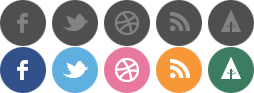
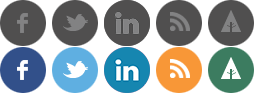
footer

diff --git a/front/src/app/components/container/footer/footer.component.html b/front/src/app/components/container/footer/footer.component.html
@@ -1,6 +1,6 @@
 <div class="footer-container"><!-- Begin Footer -->
-  <div class="container">
-      <div class="row footer-row">
+    <div class="container">
+        <div class="row footer-row">
             <div class="col-lg-3 col-sm-6 footer-col">
                 <h5>A propos</h5><br>
                 <address>
@@ -8,10 +8,10 @@
                     64100 Bayonne<br>
                 </address>
                 <ul class="social-icons">
-                    <li><a href="#" class="social-icon facebook"></a></li>
-                    <li><a href="#" class="social-icon twitter"></a></li>
-                    <!--<li><a href="#" class="social-icon dribble"></a></li>
-                    <li><a href="#" class="social-icon rss"></a></li>
+                    <!--<li><a href="https://www.facebook.com/sebaurel" class="social-icon facebook" target="blank"></a></li>-->
+                    <li><a href="https://twitter.com/Sebaurel64" class="social-icon twitter" target="blank"></a></li>
+                    <li><a href="https://www.linkedin.com/in/sébastien-aurel-8a29bb9a/" class="social-icon linkedin" target="blank"></a></li>
+                    <!--<li><a href="#" class="social-icon rss"></a></li>
                     <li><a href="#" class="social-icon forrst"></a></li>-->
                 </ul>
             </div>
@@ -30,31 +30,24 @@
                     </li>
                 </ul>
             </div>
-            <!--<div class="col-lg-3 col-sm-6 footer-col">
+            <div class="col-lg-3 col-sm-6 footer-col">
                 <h5>Derniers commentaires</h5>
                  <ul class="post-list">
-                    <li><a href="#">Lorem ipsum dolor sit amet</a></li>
-                    <li><a href="#">Consectetur adipiscing elit est lacus gravida</a></li>
+                    <li *ngFor="let commentaire of lastCommentaire$ | async">
+                        <a href="#"><h6><span class="small">De</span> {{commentaire.redacteur.pseudo}}</h6></a>
+                        <a href="#">{{commentaire.body | slice:0:30}}</a>
+                    </li>
                 </ul>
             </div>
             <div class="col-lg-3 col-sm-6 footer-col">
                 <h5>Photos</h5>
                 <ul class="img-feed">
-                    <li><a href="#"><img src="" alt="Image Feed"></a></li>
-                    <li><a href="#"><img src="" alt="Image Feed"></a></li>
-                    <li><a href="#"><img src="" alt="Image Feed"></a></li>
-                    <li><a href="#"><img src="assets\WG_Piccolo\img\gallery/flickr-img-1.jpg" alt="Image Feed"></a></li>
-                    <li><a href="#"><img src="assets\WG_Piccolo\img\gallery/flickr-img-1.jpg" alt="Image Feed"></a></li>
-                    <li><a href="#"><img src="assets\WG_Piccolo\img\gallery/flickr-img-1.jpg" alt="Image Feed"></a></li>
-                    <li><a href="#"><img src="assets\WG_Piccolo\img\gallery/flickr-img-1.jpg" alt="Image Feed"></a></li>
-                    <li><a href="#"><img src="assets\WG_Piccolo\img\gallery/flickr-img-1.jpg" alt="Image Feed"></a></li>
-                    <li><a href="#"><img src="assets\WG_Piccolo\img\gallery/flickr-img-1.jpg" alt="Image Feed"></a></li>
-                    <li><a href="#"><img src="assets\WG_Piccolo\img\gallery/flickr-img-1.jpg" alt="Image Feed"></a></li>
-                    <li><a href="#"><img src="assets\WG_Piccolo\img\gallery/flickr-img-1.jpg" alt="Image Feed"></a></li>
-                    <li><a href="#"><img src="assets\WG_Piccolo\img\gallery/flickr-img-1.jpg" alt="Image Feed"></a></li>
+                    <li *ngFor="let photo of lastPhoto$ | async">
+                        <a href="#"><img class="petiteThumb" [src]="pathUpload+photo.id+'-thumb.png'" alt="Image"></a>
+                    </li>
                 </ul>
             </div>
-        </div>-->
+        </div><!---->
 
         <!--<div class="row"> Begin Sub Footer
             <div class="col-12 footer-col footer-sub">

diff --git a/front/src/app/components/profil-form/profil-form.component.html b/front/src/app/components/profil-form/profil-form.component.html
@@ -1,0 +1,74 @@
+<div class="container-scroller background-picture">
+    <div class="container-fluid page-body-wrapper full-page-wrapper">
+      <form [formGroup]="formProfile">
+        <div class="content-wrapper d-flex align-items-center auth login-full-bg">
+          <div class="col-lg-5 mx-auto">
+            <div class="auth-form-dark text-left p-5">
+              <h2>Votre profil</h2>
+              <h5 class="font-weight-light">Renseignements généraux</h5>
+  
+              <div class="form-group" [ngClass]="{'has-error': formErrors.pseudo}">
+                <label for="pseudo">Pseudo</label>
+                <input type="text" class="form-control" name="pseudo" id="pseudo" formControlName="pseudo" />
+                <div *ngIf="formErrors.pseudo" class="help-block">{{formErrors.pseudo}}</div>
+              </div>
+              <!--<div class="form-group">
+                <label for="nom">Nom</label>
+                <input type="text" class="form-control" name="nom" id="nom" />
+              </div>
+              <div class="form-group">
+                <label for="prenom">Prénom</label>
+                <input type="text" class="form-control" name="prenom" id="prenom" />
+              </div>-->
+              <div class="form-group" [ngClass]="{'has-error': formErrors.email}">
+                <label for="email">Email</label>
+                <input type="email" class="form-control" name="email" id="email" formControlName="email" />
+              </div>
+              <!--<div class="form-group">
+                <label for="password">Mot de passe</label>
+                <input type="password" class="form-control" name="password" id="password" />
+              </div>-->
+  
+            </div>
+          </div>
+  
+          <div class="col-lg-5 mx-auto">
+            <div class="auth-form-dark text-left p-5">
+              <h5 class="font-weight-light">Un peu plus sur vous</h5>
+  
+              <div class="row">
+                <div class=" mx-auto" width="40px">
+                  <label for="photo">Photo de profil</label>
+                  <div class="row">
+  
+                    <app-photo-upload [(photo)]="utilisateur.photo" [(photoThumbPath)]="photoThumbPath" [width]="190" [height]="250" [progress]="progress" (photoUpload)="photoChange($event)"></app-photo-upload>
+  
+                  </div>
+                </div>
+                <!--
+                <div class="col-lg-5 mx-auto">
+                  <div class="form-group">
+                    <label for="birthday">Date de naissance</label>
+                    <input type="Date" class="form-control" name="birthday" id="birthday" />
+                  </div>
+                </div>
+              </div>
+  
+              <div class="form-group">
+                <label for="descriptif">Vous en quelques mots</label>
+                <textarea rows="4" cols="50" class="form-control" name="descriptif" id="descriptif">{{utilisateur.descriptif}}</textarea>
+              </div>-->
+              </div>
+  
+            </div>
+          </div>
+  
+        </div>
+        <div class="mt-5 mb-3 text-center">
+          <button class="btn btn-lg font-weight-medium" [ngClass]="!confirmExit ? 'btn-success' : 'btn-warning'" (click)="onSubmit(formProfile)">Modifier mon compte</button>
+          &nbsp;
+          <button class="btn btn-danger btn-lg font-weight-medium" (click)="delete()">Supprimer mon compte</button>
+        </div>
+      </form>
+    </div>
+  </div>

diff --git a/front/src/app/app-routing.module.ts b/front/src/app/app-routing.module.ts
@@ -3,7 +3,8 @@ import { LoginComponent } from "./components/login/login.component";
 import { RegisterComponent } from "./components/register/register.component";
 import { ContainerComponent } from "./components/container/container.component";
 import { UrlPermission } from "./jwtAuthorization/url.permission";
-import { ProfileComponent } from './components/profile/profile.component';
+import { ProfilFormComponent } from './components/profil-form/profil-form.component';
+import { ProfilComponent } from './components/profil/profil.component';
 import { RecetteFormComponent } from './components/recette-form/recette-form.component';
 import { RecettesComponent } from './components/recettes/recettes.component';
 import { AlimentFormComponent } from './components/aliment-form/aliment-form.component';
@@ -31,14 +32,17 @@ export const routes: Routes = [
   {
     path: 'recettes',
     component: ContainerComponent,
-    children: [
-      { path: '', component: RecettesComponent, outlet: 'connected' },
-    ],
+    children: [{ path: '', component: RecettesComponent, outlet: 'connected' },],
   },
   {
     path: 'compte',
     component: ContainerComponent, canActivate: [UrlPermission],
-    children: [{ path: '', component: ProfileComponent, canDeactivate: [ConfirmationGuard], outlet: 'connected' }]
+    children: [{ path: '', component: ProfilFormComponent, canDeactivate: [ConfirmationGuard], outlet: 'connected' }]
+  },
+  {
+    path: 'compte/:id',
+    component: ContainerComponent, canActivate: [UrlPermission],
+    children: [{ path: '', component: ProfilComponent, canDeactivate: [ConfirmationGuard], outlet: 'connected' }]
   },
   {
     path: 'mesrecettes',

diff --git a/front/src/app/components/container/header/navigation/navigation.component.html b/front/src/app/components/container/header/navigation/navigation.component.html
@@ -5,8 +5,9 @@
             <a class="dropdown" routerLink="/home">Accueil</a>
         </li>
         <li *ngIf="loggedIn else recetteBlock" [className]="ongletRecettes" on-mouseover="activate('recettes')" on-mouseleave="deActivate('recettes')">
-            <a class="dropdown-toggle" routerLink="/recettes">Recettes</a>
+            <a class="dropdown-toggle">Recettes</a>
             <ul class="dropdown-menu" [hidden]="!menuRecettes">
+                <li><a routerLink="/recettes">Recherche</a></li>
                 <li><a routerLink="/recette/new">Déposer</a></li>
             </ul>
         </li>
@@ -19,10 +20,11 @@
             <a class="dropdown" routerLink="/contact">Contact</a>
         </li>
         <li *ngIf="loggedIn else loginBlock" [className]="ongletCompte" on-mouseover="activate('compte')" on-mouseleave="deActivate('compte')">
-            <a class="dropdown-toggle" routerLink="/compte"><fa-icon [icon]="faUser"></fa-icon>&nbsp;Compte</a>
+            <a class="dropdown-toggle" ><fa-icon [icon]="faUser"></fa-icon>&nbsp;Compte</a>
             <ul class="dropdown-menu" [hidden]="!menuCompte">
-                <li *ngIf="loggedIn"><a routerLink="/mesrecettes">Mes recettes</a></li>
-                <li *ngIf="loggedIn"><a routerLink="/mesfavoris">Mes favoris</a></li>
+                <li><a routerLink="/compte">Mon profil</a></li>
+                <li><a routerLink="/mesrecettes">Mes recettes</a></li>
+                <li><a routerLink="/mesfavoris">Mes favoris</a></li>
                 <li *ngIf="admin"><a routerLink="/recette/aliment">Aliments</a></li>
                 <li><a href="#" (click)="logOut()">Déconnexion</a></li>
             </ul>

diff --git a/front/src/app/app.module.ts b/front/src/app/app.module.ts
@@ -16,7 +16,6 @@ import { AppComponent } from './app.component';
 import { LoginComponent } from './components/login/login.component';
 import { ContainerComponent } from './components/container/container.component';
 import { AuthService } from './services/auth.service';
-import { ProfileComponent } from './components/profile/profile.component';
 import { UrlPermission } from './jwtAuthorization/url.permission';
 import { UtilisateurService } from './services/utilisateur.service';
 import { PreviousRouteService } from './services/previous-route.service';
@@ -53,6 +52,8 @@ import { PhotoUploadComponent } from './components/transverse/photo-upload/photo
 import { FontAwesomeModule } from '@fortawesome/angular-fontawesome';
 import { PrintRecetteComponent } from './components/transverse/print-recette/print-recette.component';
 import { ContactComponent } from './components/contact/contact.component';
+import { ProfilComponent } from './components/profil/profil.component';
+import { ProfilFormComponent } from './components/profil-form/profil-form.component';
 
 registerLocaleData(localeFr);
 
@@ -62,7 +63,6 @@ registerLocaleData(localeFr);
     LoginComponent, 
     RegisterComponent,
     ContainerComponent,
-    ProfileComponent,
     RecetteFormComponent,
     RecetteComponent,
     HomeComponent,
@@ -89,6 +89,8 @@ registerLocaleData(localeFr);
     PhotoUploadComponent,
     PrintRecetteComponent,
     ContactComponent,
+    ProfilComponent,
+    ProfilFormComponent,
   ],
   imports: [
     HttpClientModule,

diff --git a/front/src/app/components/container/footer/footer.component.ts b/front/src/app/components/container/footer/footer.component.ts
@@ -3,6 +3,10 @@ import { RecetteService } from 'src/app/services/recette.service';
 import { Observable } from 'rxjs';
 import { Recette } from 'src/app/model/recette.model';
 import { environment } from 'src/environments/environment';
+import { CommentaireService } from 'src/app/services/commentaire.service';
+import { PhotoService } from 'src/app/services/photo.service';
+import { Commentaire } from 'src/app/model/commentaire.model';
+import { Photo } from 'src/app/model/photo.model';
 
 @Component({
   selector: 'app-footer',
@@ -13,11 +17,17 @@ export class FooterComponent implements OnInit {
 
   pathUpload: string = environment.PATH_UPLOAD;
   lastRecette$: Observable<Recette>;
-   
+  lastCommentaire$ : Observable<Commentaire>;
+  lastPhoto$ : Observable<Photo>;
+
   constructor(
-    private recetteService: RecetteService
+    private recetteService: RecetteService,
+    private commentaireService: CommentaireService,
+    private photoService: PhotoService
   ) {
-    this.lastRecette$ = recetteService.getLastRecette();
+    this.lastRecette$ = this.recetteService.getLastRecette();
+    this.lastCommentaire$ = this.commentaireService.getLastCommentaire();
+    this.lastPhoto$ = this.photoService.getLastPhoto();
   }
 
   ngOnInit() {

diff --git a/front/src/app/services/photo.service.ts b/front/src/app/services/photo.service.ts
@@ -10,6 +10,8 @@ import { Photo } from '../model/photo.model';
 })
 export class PhotoService {
   
+  url: string = environment.API_URL+'rest/photo';
+
   constructor(
     private uploadService: UploadFileService,
     private http: HttpClient
@@ -21,12 +23,15 @@ export class PhotoService {
     .append("height", height)
     .append("width", width);
 
-    let url = environment.API_URL+'rest/photo'
     
-    return this.uploadService.pushFileToStorage(selectedPhoto, url, httpParams);
+    return this.uploadService.pushFileToStorage(selectedPhoto, this.url, httpParams);
   }
 
   deletePhoto(photo: Photo) {
-    return this.http.delete(environment.API_URL+'rest/photo/'+ photo.id)
+    return this.http.delete(this.url+ photo.id)
+  }
+
+  public getLastPhoto(): Observable<Photo> {
+    return this.http.get<Photo>(this.url+'/last', {observe: 'body'});
   }
 }

diff --git a/front/src/app/components/profil/profil.component.spec.ts b/front/src/app/components/profil/profil.component.spec.ts
@@ -1,20 +1,20 @@
 import { async, ComponentFixture, TestBed } from '@angular/core/testing';
 
-import { ProfileComponent } from './profile.component';
+import { ProfilComponent } from './profil.component';
 
-describe('ProfileComponent', () => {
-  let component: ProfileComponent;
-  let fixture: ComponentFixture<ProfileComponent>;
+describe('ProfilComponent', () => {
+  let component: ProfilComponent;
+  let fixture: ComponentFixture<ProfilComponent>;
 
   beforeEach(async(() => {
     TestBed.configureTestingModule({
-      declarations: [ ProfileComponent ]
+      declarations: [ ProfilComponent ]
     })
     .compileComponents();
   }));
 
   beforeEach(() => {
-    fixture = TestBed.createComponent(ProfileComponent);
+    fixture = TestBed.createComponent(ProfilComponent);
     component = fixture.componentInstance;
     fixture.detectChanges();
   });

diff --git a/front/src/app/components/profil-form/profil-form.component.ts b/front/src/app/components/profil-form/profil-form.component.ts
@@ -10,12 +10,12 @@ import { Photo } from 'src/app/model/photo.model';
 import { AuthService } from 'src/app/services/auth.service';
 
 @Component({
-  selector: 'app-profile',
-  templateUrl: './profile.component.html',
-  styleUrls: ['./profile.component.scss'],
+  selector: 'app-profil-form',
+  templateUrl: './profil-form.component.html',
+  styleUrls: ['./profil-form.component.scss'],
   encapsulation: ViewEncapsulation.None
 })
-export class ProfileComponent implements OnInit, CanComponentDeactivate {
+export class ProfilFormComponent implements OnInit, CanComponentDeactivate {
 
   utilisateur: Utilisateur = this.userService.getCurrentUserLogged();
   photoThumbPath: String;
@@ -102,4 +102,5 @@ export class ProfileComponent implements OnInit, CanComponentDeactivate {
       return true;
     }
   }
+
 }

diff --git a/front/src/app/components/profil-form/profil-form.component.spec.ts b/front/src/app/components/profil-form/profil-form.component.spec.ts
@@ -1,0 +1,25 @@
+import { async, ComponentFixture, TestBed } from '@angular/core/testing';
+
+import { ProfilFormComponent } from './profil-form.component';
+
+describe('ProfilFormComponent', () => {
+  let component: ProfilFormComponent;
+  let fixture: ComponentFixture<ProfilFormComponent>;
+
+  beforeEach(async(() => {
+    TestBed.configureTestingModule({
+      declarations: [ ProfilFormComponent ]
+    })
+    .compileComponents();
+  }));
+
+  beforeEach(() => {
+    fixture = TestBed.createComponent(ProfilFormComponent);
+    component = fixture.componentInstance;
+    fixture.detectChanges();
+  });
+
+  it('should create', () => {
+    expect(component).toBeTruthy();
+  });
+});

diff --git a/front/src/app/services/commentaire.service.ts b/front/src/app/services/commentaire.service.ts
@@ -8,8 +8,6 @@ import { Observable } from 'rxjs';
   providedIn: 'root'
 })
 export class CommentaireService {
-  
-
   commentaire: Commentaire = new Commentaire();
 
   constructor(
@@ -31,5 +29,11 @@ export class CommentaireService {
   public deleteCommentaire(idCommentaire: number) {
     return this.http.delete<Commentaire>(environment.API_URL+'rest/commentaire/'+idCommentaire, {observe: "body"});
   }
+
+  public getLastCommentaire(): Observable<any> {
+    return this.http.get(environment.API_URL+'rest/commentaire/last', {observe: 'body'});
+  }
+  
+
 
 }

diff --git a/front/src/app/components/container/footer/footer.component.scss b/front/src/app/components/container/footer/footer.component.scss
@@ -59,8 +59,8 @@ a.facebook {background-position: 0px 0px;}
 a.facebook:hover {background-position: 0px -47px;}
 a.twitter{background-position: -52px 0px;}
 a.twitter:hover {background-position: -52px -47px;}
-a.dribble{background-position: -104px 0px;}
-a.dribble:hover {background-position: -104px -47px;}
+a.linkedin{background-position: -104px 0px;}
+a.linkedin:hover {background-position: -104px -47px;}
 a.rss{background-position: -156px 0px;}
 a.rss:hover {background-position: -156px -47px;}
 a.forrst{background-position: -208px 0px;}
